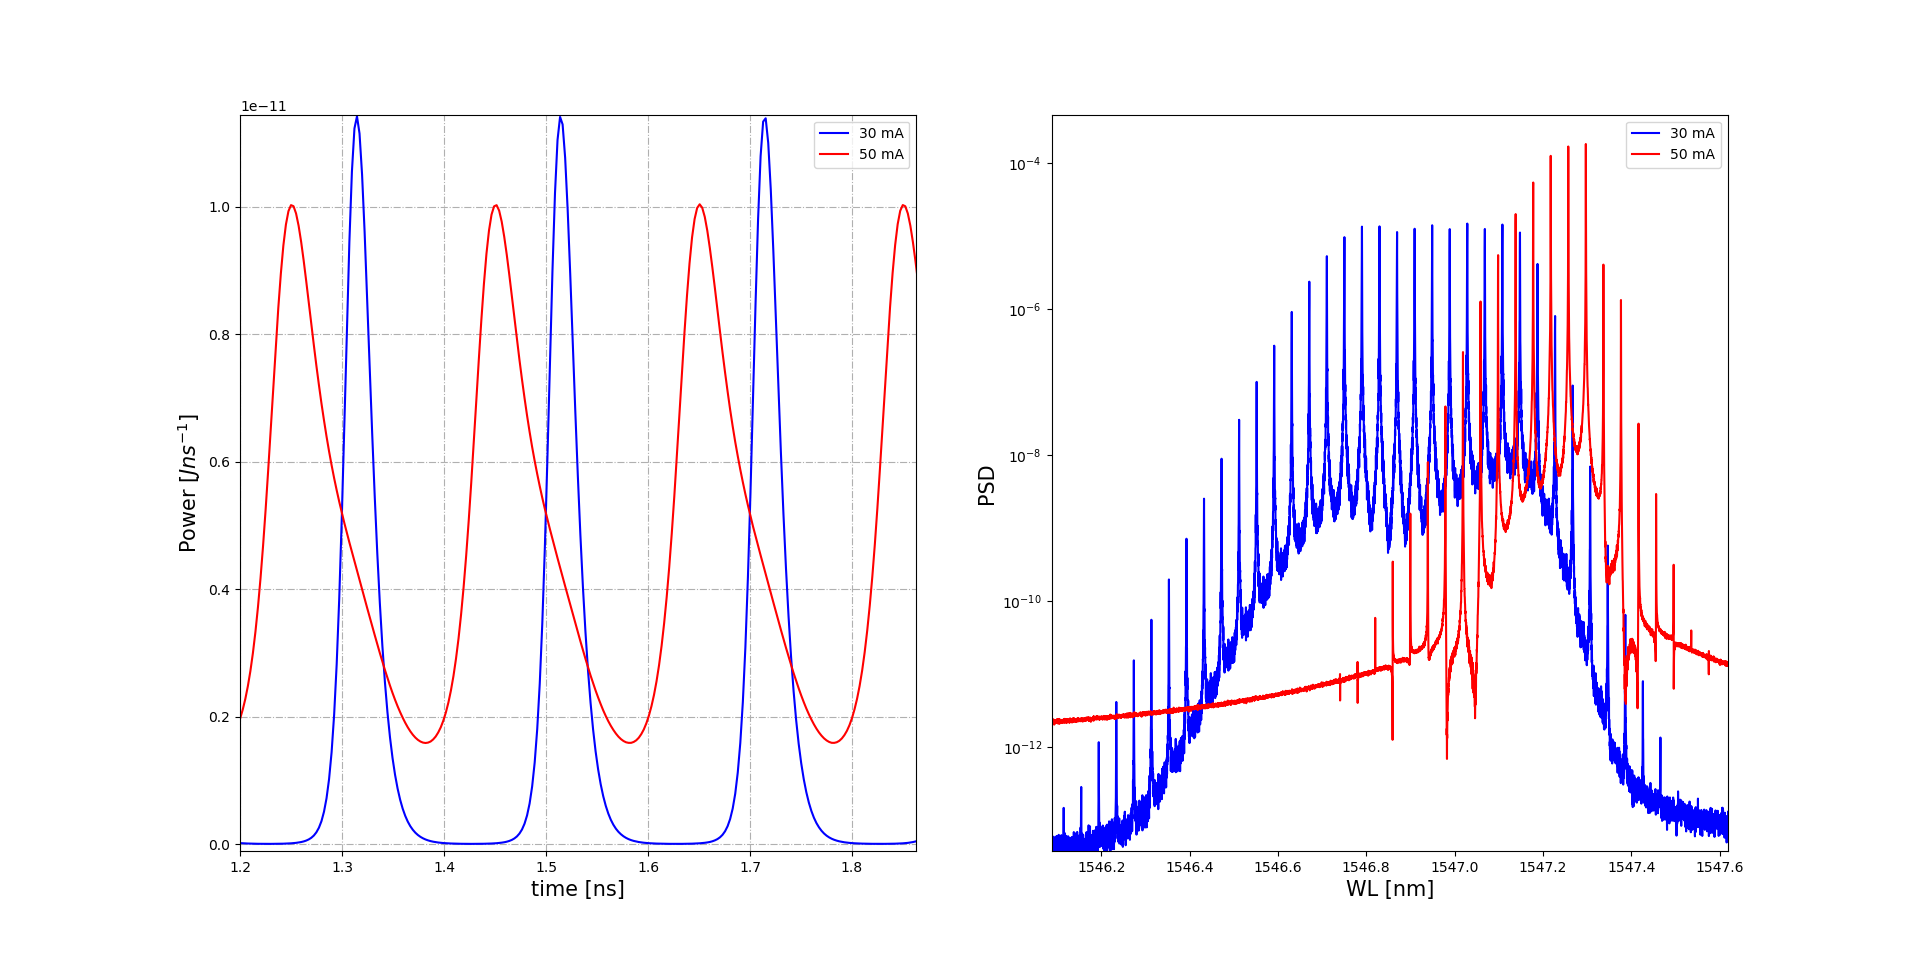
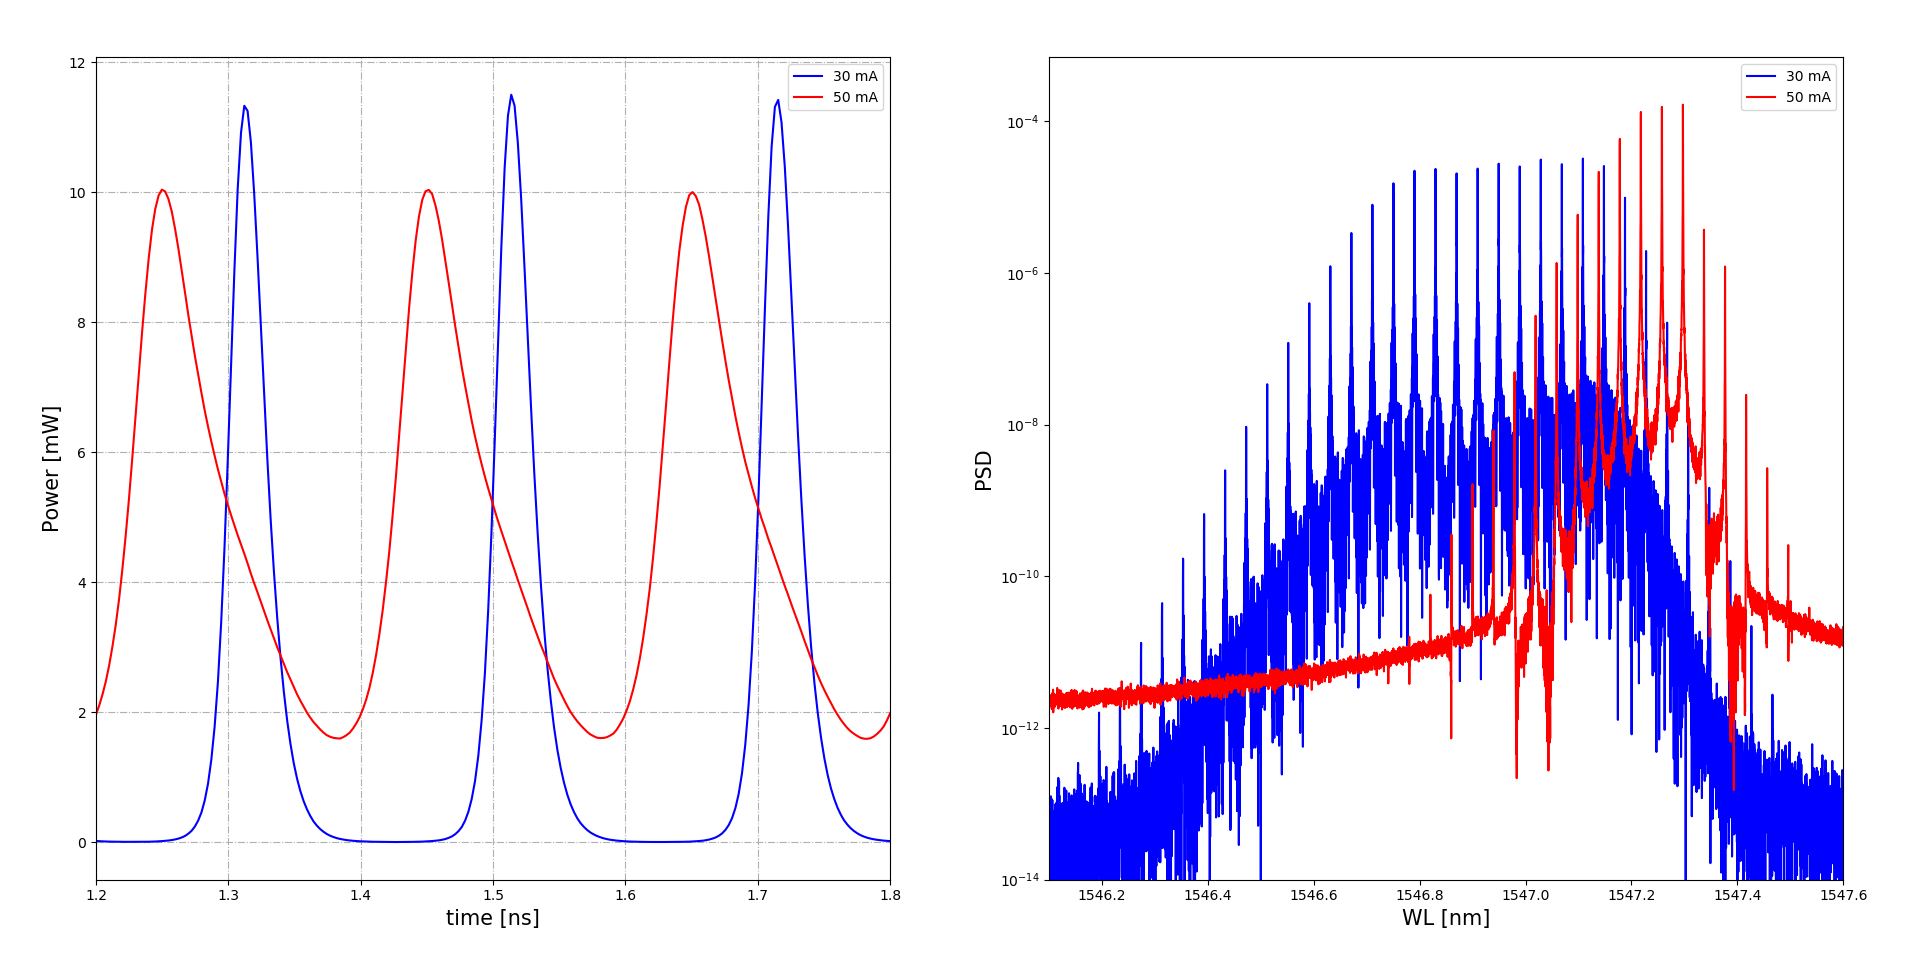
current

diff --git a/src/current.py b/src/current.py
@@ -10,7 +10,7 @@ colors = ['b', 'r']
 
 vRF = 1.0 * 10**(-9) #RMS voltage value of the signal generator [V]
 
-nWindw = 20
+nWindw = 1
 delta = 0.0025 # tiempo de muestreo para la FFT [ns]
 nFFT = int(tWindw / delta) # numero de puntos de la FFT (potencia de 2)
 ndelta = int(delta / tIntev) # ndelta*tIntev=delta
@@ -94,7 +94,7 @@ for i in range(len(iBias)):
                                 cTIntv*tempN**3 - vgT*tempN*invS + vgtN*invS)
 
         opField[0] = np.sqrt(constP * tempS) * np.exp(1j*tempPhi)
-        P[0] += (constP * tempS *10**(9))/float(nWindw)
+        P[0] += (constP * tempS *10**(12))/float(nWindw)
         tmP[0] = time[q]
 
         for q in range(1, nFFT):
@@ -116,7 +116,7 @@ for i in range(len(iBias)):
                                 (cTIntv*tempN**3) - vgT*tempN*invS + vgtN*invS)
 
             opField[q] = np.sqrt(constP * tempS) * np.exp(1j*tempPhi)
-            P[q] += (constP * tempS *10**(9))/float(nWindw)
+            P[q] += (constP * tempS *10**(12))/float(nWindw)
             tmP[q] = time[index]
 
         transFourier = np.fft.fft(opField)
@@ -135,11 +135,14 @@ for i in range(len(iBias)):
 
 axs[0].grid(linestyle='-.')
 axs[0].set_xlabel("time [ns]", fontsize=15)
+axs[0].set_xlim([1.2, 1.8])
 
 axs[1].set_yscale("log")
 axs[1].set_xlabel("WL [nm]", fontsize=15)
+axs[1].set_xlim([1546.1, 1547.6])
+axs[1].set_ylim([10**(-14), 0.7*10**(-3)])
 
-axs[0].set_ylabel("Power [$W$]", fontsize=15)
+axs[0].set_ylabel("Power [mW]", fontsize=15)
 axs[1].set_ylabel("PSD", fontsize=15)
 
 axs[0].legend()
